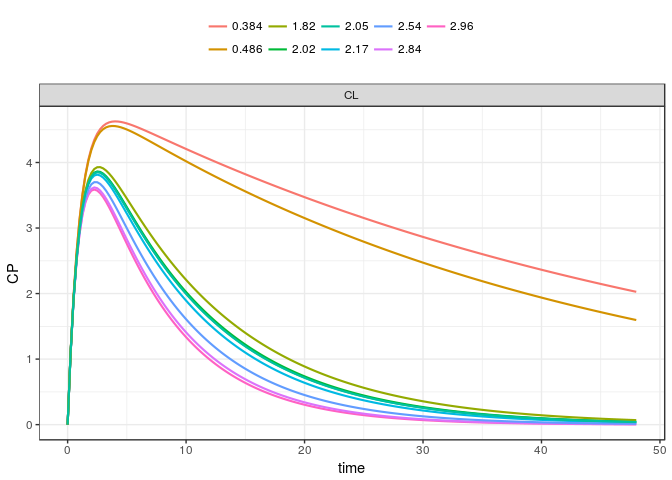
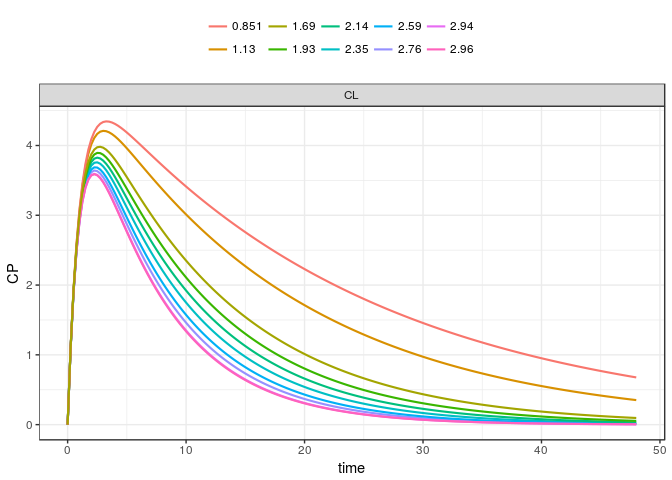
Update README

diff --git a/README.md b/README.md
@@ -15,12 +15,14 @@ install_github("mrgsolve/mrgsolvetk", ref = "mrgoptim")
 Examples
 ========
 
+-   [Sensitivity Analyses](#sensitivity-analyses)
+-   [Parameter Optimization](#maximum-likelihood-parameter-optimization)
+
 ``` r
 library(ggplot2)
 library(dplyr)
 library(mrgsolve)
 library(mrgsolvetk)
-source("R/mrgoptim.R")
 
 theme_set(theme_bw())
 
@@ -58,16 +60,16 @@ out
     . # A tibble: 1,930 x 8
     .       ID  time    CP    CL    VC   KA1 name         value
     .    <dbl> <dbl> <dbl> <dbl> <dbl> <dbl> <chr>        <dbl>
-    .  1    1. 0.     0.    1.02  13.1  1.07 multivariate    1.
-    .  2    1. 0.250  1.77  1.02  13.1  1.07 multivariate    1.
-    .  3    1. 0.500  3.09  1.02  13.1  1.07 multivariate    1.
-    .  4    1. 0.750  4.07  1.02  13.1  1.07 multivariate    1.
-    .  5    1. 1.00   4.78  1.02  13.1  1.07 multivariate    1.
-    .  6    1. 1.25   5.30  1.02  13.1  1.07 multivariate    1.
-    .  7    1. 1.50   5.66  1.02  13.1  1.07 multivariate    1.
-    .  8    1. 1.75   5.91  1.02  13.1  1.07 multivariate    1.
-    .  9    1. 2.00   6.07  1.02  13.1  1.07 multivariate    1.
-    . 10    1. 2.25   6.16  1.02  13.1  1.07 multivariate    1.
+    .  1    1. 0.     0.    2.51  27.3  2.75 multivariate    1.
+    .  2    1. 0.250  1.80  2.51  27.3  2.75 multivariate    1.
+    .  3    1. 0.500  2.66  2.51  27.3  2.75 multivariate    1.
+    .  4    1. 0.750  3.05  2.51  27.3  2.75 multivariate    1.
+    .  5    1. 1.00   3.21  2.51  27.3  2.75 multivariate    1.
+    .  6    1. 1.25   3.25  2.51  27.3  2.75 multivariate    1.
+    .  7    1. 1.50   3.24  2.51  27.3  2.75 multivariate    1.
+    .  8    1. 1.75   3.19  2.51  27.3  2.75 multivariate    1.
+    .  9    1. 2.00   3.13  2.51  27.3  2.75 multivariate    1.
+    . 10    1. 2.25   3.07  2.51  27.3  2.75 multivariate    1.
     . # ... with 1,920 more rows
 
 ``` r
@@ -187,16 +189,16 @@ out
     . # A tibble: 19,300 x 7
     .       ID  time    CP    CL    VC name         value
     .    <dbl> <dbl> <dbl> <dbl> <dbl> <chr>        <dbl>
-    .  1    1. 0.    0.     1.39  71.1 multivariate    1.
-    .  2    1. 0.250 0.310  1.39  71.1 multivariate    1.
-    .  3    1. 0.500 0.550  1.39  71.1 multivariate    1.
-    .  4    1. 0.750 0.736  1.39  71.1 multivariate    1.
-    .  5    1. 1.00  0.878  1.39  71.1 multivariate    1.
-    .  6    1. 1.25  0.988  1.39  71.1 multivariate    1.
-    .  7    1. 1.50  1.07   1.39  71.1 multivariate    1.
-    .  8    1. 1.75  1.14   1.39  71.1 multivariate    1.
-    .  9    1. 2.00  1.18   1.39  71.1 multivariate    1.
-    . 10    1. 2.25  1.22   1.39  71.1 multivariate    1.
+    .  1    1. 0.    0.     2.19  86.3 multivariate    1.
+    .  2    1. 0.250 0.255  2.19  86.3 multivariate    1.
+    .  3    1. 0.500 0.453  2.19  86.3 multivariate    1.
+    .  4    1. 0.750 0.605  2.19  86.3 multivariate    1.
+    .  5    1. 1.00  0.722  2.19  86.3 multivariate    1.
+    .  6    1. 1.25  0.811  2.19  86.3 multivariate    1.
+    .  7    1. 1.50  0.879  2.19  86.3 multivariate    1.
+    .  8    1. 1.75  0.931  2.19  86.3 multivariate    1.
+    .  9    1. 2.00  0.969  2.19  86.3 multivariate    1.
+    . 10    1. 2.25  0.998  2.19  86.3 multivariate    1.
     . # ... with 19,290 more rows
 
 ``` r
@@ -206,16 +208,16 @@ distinct(out,ID,CL,VC)
     . # A tibble: 100 x 3
     .       ID    CL    VC
     .    <dbl> <dbl> <dbl>
-    .  1    1.  1.39  71.1
-    .  2    2.  2.12  72.6
-    .  3    3.  1.19  63.8
-    .  4    4.  1.66  36.2
-    .  5    5.  3.15  59.7
-    .  6    6.  2.84  19.3
-    .  7    7.  2.69  40.2
-    .  8    8.  1.07  53.1
-    .  9    9.  2.75  38.0
-    . 10   10.  1.05  30.4
+    .  1    1.  2.19  86.3
+    .  2    2.  2.37  60.0
+    .  3    3.  1.88  48.3
+    .  4    4.  3.23  61.0
+    .  5    5.  2.80  75.1
+    .  6    6.  3.26  55.0
+    .  7    7.  2.69  26.1
+    .  8    8.  1.54  87.6
+    .  9    9.  2.51  39.9
+    . 10   10.  2.77  47.8
     . # ... with 90 more rows
 
 Maximum Likelihood Parameter Optimization
@@ -265,7 +267,7 @@ ggplot(data, aes(x = time, y = dv, color = as.factor(ID))) +
 The following model will be fit to these data:
 
 -   PK: 2 compartment model
--   PD: Emax model with baseline
+-   PD: Inhibitory Emax model with baseline
 -   Proportional error models for both PK and PD
 
 ``` r
